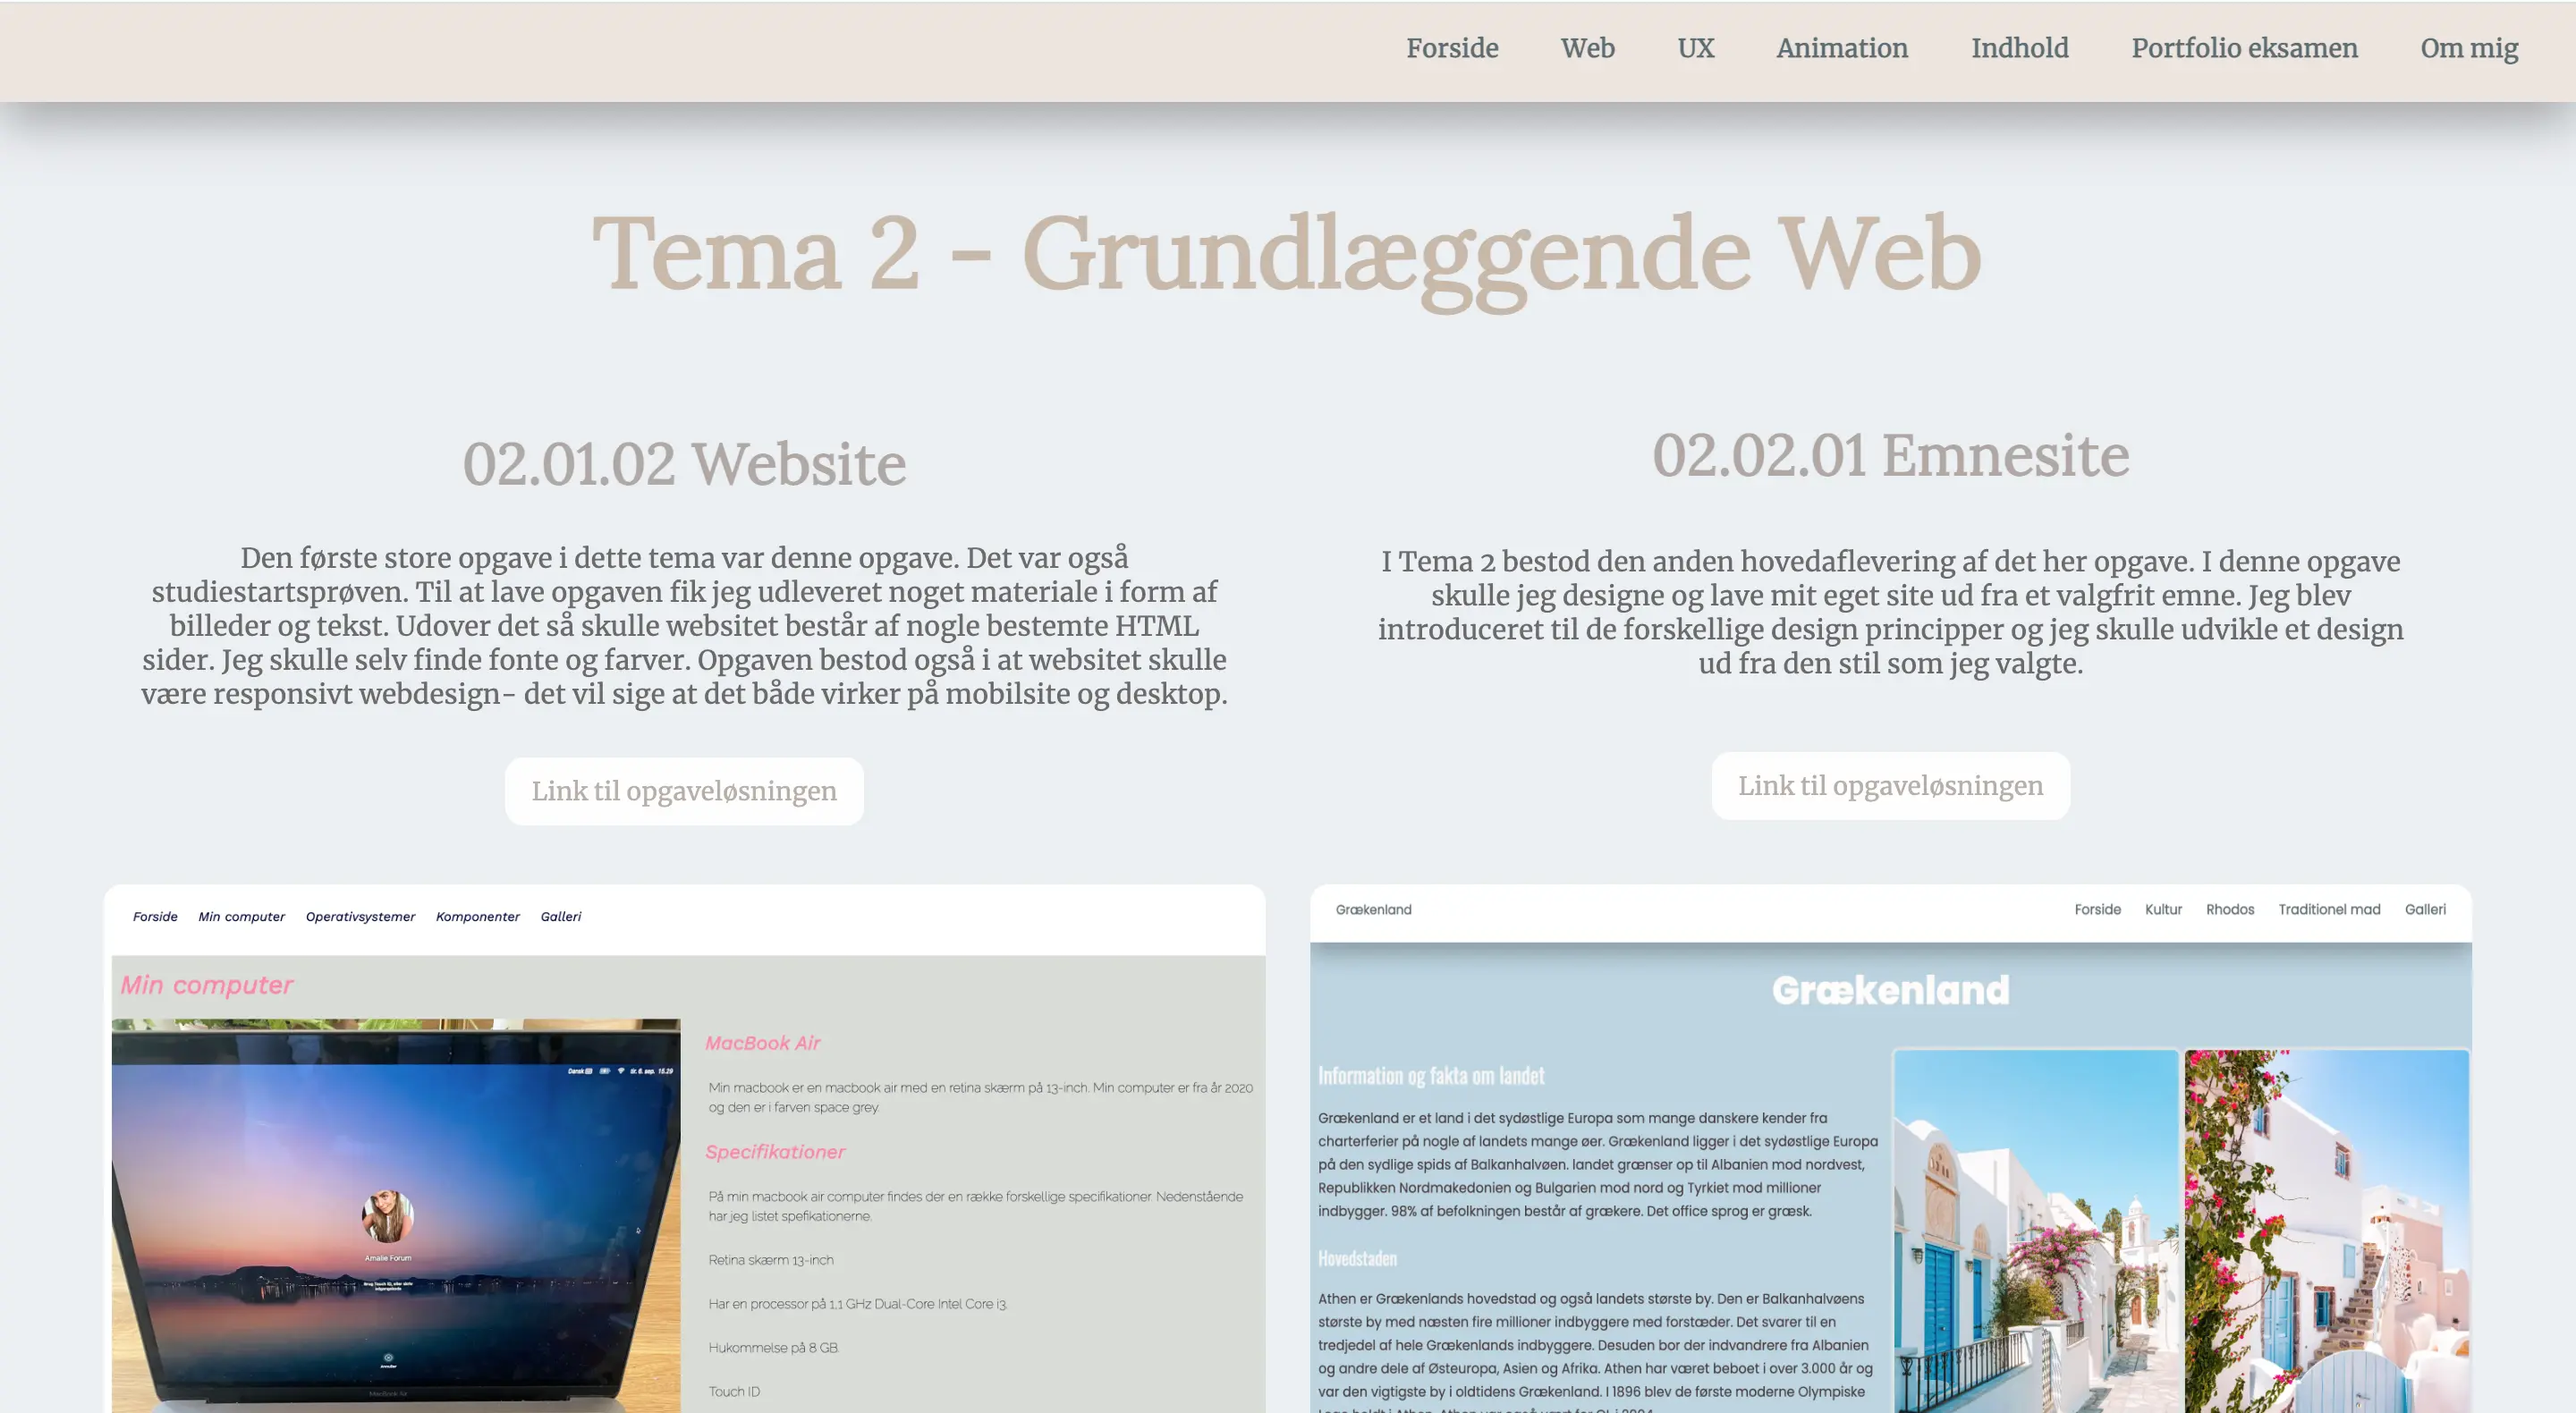
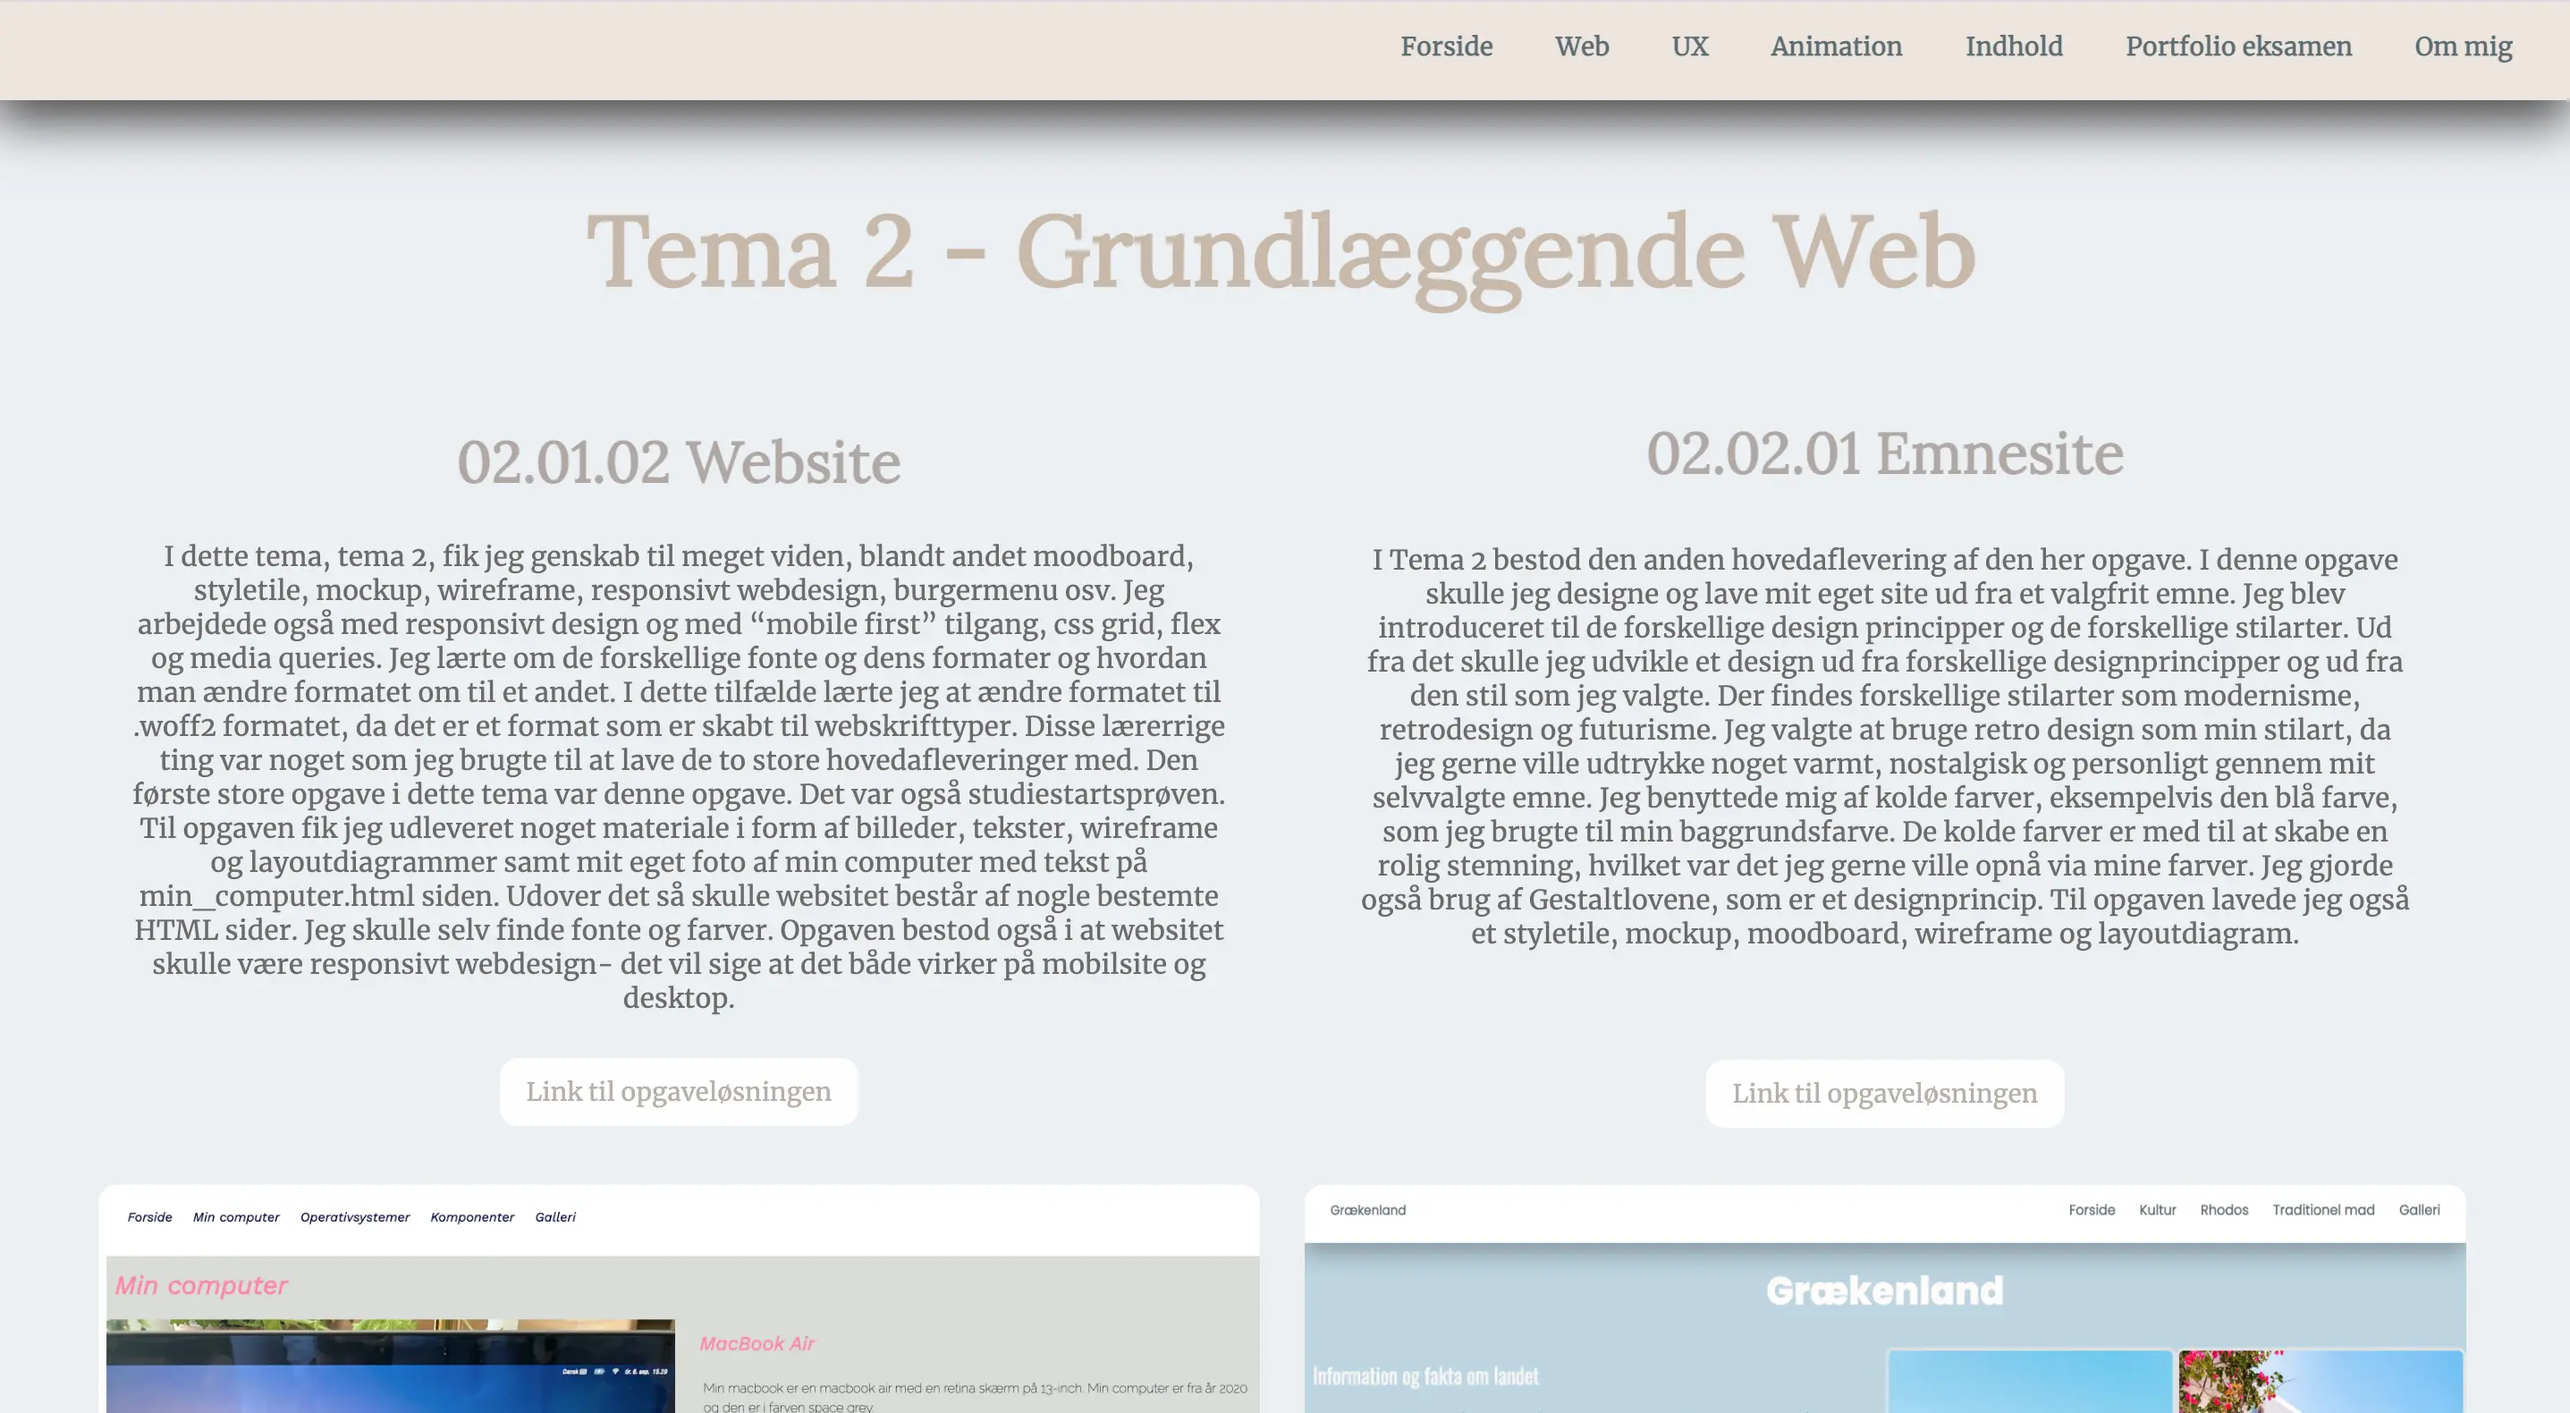
skrevet mere tekst til siderne

diff --git a/tema2.html b/tema2.html
@@ -31,8 +31,11 @@
         <div class="website">
           <h2 class="overskrift3">02.01.02 Website</h2>
           <p class="tekst2">
-            Den første store opgave i dette tema var denne opgave. Det var også studiestartsprøven. Til at lave opgaven fik jeg udleveret noget materiale i form af billeder og tekst. Udover det så skulle websitet består af nogle bestemte HTML sider.
-            Jeg skulle selv finde fonte og farver. Opgaven bestod også i at websitet skulle være responsivt webdesign- det vil sige at det både virker på mobilsite og desktop.
+            I dette tema, tema 2, fik jeg genskab til meget viden, blandt andet moodboard, styletile, mockup, wireframe, responsivt webdesign, burgermenu osv. Jeg arbejdede også med responsivt design og med “mobile first” tilgang, css grid, flex og
+            media queries. Jeg lærte om de forskellige fonte og dens formater og hvordan man ændre formatet om til et andet. I dette tilfælde lærte jeg at ændre formatet til .woff2 formatet, da det er et format som er skabt til webskrifttyper. Disse
+            lærerrige ting var noget som jeg brugte til at lave de to store hovedafleveringer med. Den første store opgave i dette tema var denne opgave. Det var også studiestartsprøven. Til opgaven fik jeg udleveret noget materiale i form af
+            billeder, tekster, wireframe og layoutdiagrammer samt mit eget foto af min computer med tekst på min_computer.html siden. Udover det så skulle websitet består af nogle bestemte HTML sider. Jeg skulle selv finde fonte og farver. Opgaven
+            bestod også i at websitet skulle være responsivt webdesign- det vil sige at det både virker på mobilsite og desktop.
           </p>
           <div class="link1">
             <form action="https://www.mmdkea.dk/kea/02_web/01_website/website/index.html">
@@ -43,8 +46,10 @@
         <div class="emnesite">
           <h2 class="overskrift5">02.02.01 Emnesite</h2>
           <p class="tekst3">
-            I Tema 2 bestod den anden hovedaflevering af det her opgave. I denne opgave skulle jeg designe og lave mit eget site ud fra et valgfrit emne. Jeg blev introduceret til de forskellige design principper og jeg skulle udvikle et design ud
-            fra den stil som jeg valgte.
+            I Tema 2 bestod den anden hovedaflevering af den her opgave. I denne opgave skulle jeg designe og lave mit eget site ud fra et valgfrit emne. Jeg blev introduceret til de forskellige design principper og de forskellige stilarter. Ud fra
+            det skulle jeg udvikle et design ud fra forskellige designprincipper og ud fra den stil som jeg valgte. Der findes forskellige stilarter som modernisme, retrodesign og futurisme. Jeg valgte at bruge retro design som min stilart, da jeg
+            gerne ville udtrykke noget varmt, nostalgisk og personligt gennem mit selvvalgte emne. Jeg benyttede mig af kolde farver, eksempelvis den blå farve, som jeg brugte til min baggrundsfarve. De kolde farver er med til at skabe en rolig
+            stemning, hvilket var det jeg gerne ville opnå via mine farver. Jeg gjorde også brug af Gestaltlovene, som er et designprincip. Til opgaven lavede jeg også et styletile, mockup, moodboard, wireframe og layoutdiagram.
           </p>
           <div class="link2">
             <form action="https://mmdkea.dk/kea/02_web/02_emnesite/emnesite/index.html">
@@ -54,6 +59,14 @@
         </div>
         <img class="img2" src="billeder/website.webp" alt="website" />
         <img class="img3" src="./billeder/emnesite.webp" alt="emnesite" />
+        <div class="website2">
+          <h3 class="h3w">Responsivt webdesign- fungerer også i mobilefirst</h3>
+          <img class="img31" src="./billeder/computer.webp" alt="computer" />
+        </div>
+        <div class="emnesite2">
+          <h3 class="h3e">Moodboard</h3>
+          <img class="img32" src="billeder/moodboard.webp" alt="moodboard" />
+        </div>
       </div>
     </main>
     <footer>

diff --git a/style.css b/style.css
@@ -182,11 +182,21 @@ p {
   padding: 58px;
   gap: 25px;
 }
-/* Givet billeder en rund kant istedet for den orginale (firkantet) */
+/* Givet billederne en rund kant istedet for den orginale (firkantet) */
+/* billede af website opgaven- desktop format */
 .img2 {
   border-radius: 10px;
 }
+/* billede af emnesite opgaven */
 .img3 {
+  border-radius: 10px;
+}
+/* billede af website opgaven i mobile first format */
+.img31 {
+  border-radius: 10px;
+}
+/* billede af moodboard til emnesite opgaven */
+.img32 {
   border-radius: 10px;
 }
 
@@ -199,20 +209,33 @@ p {
   padding: 5px;
 }
 
-/* h3 på website opgaven*/
-/* .overskrift4 {
-  font-size: 20px;
-  color: rgba(133, 121, 108, 0.588);
-  text-align: center;
-  font-family: "Lora";
-} */
-
 /* h2 på emnesite opgaven */
 .overskrift5 {
   font-size: 32px;
   color: #85796c96;
   text-align: center;
   font-family: "Lora";
+}
+
+/* h3 på responsivt design skriften på website opgaven */
+.h3w {
+  font-size: 22px;
+  color: #85796c96;
+  text-align: center;
+  font-family: "Lora";
+  padding-top: 10px;
+  padding-bottom: 10px;
+}
+
+/* h3 på moodboard på emnesite opgaven */
+.h3e {
+  font-size: 22px;
+  color: #85796c96;
+  text-align: center;
+  font-family: "Lora";
+  padding-top: 5px;
+  padding-bottom: 8px;
+  padding: 10px;
 }
 
 /* tekst på website opgaven */
@@ -237,21 +260,21 @@ p {
 .link1 {
   display: flex;
   justify-content: center;
-  padding: 2px;
+  padding-bottom: 2px;
 }
 
 /* link til emnesite opgaven */
 .link2 {
   display: flex;
   justify-content: center;
-  padding: 4px;
+  padding-top: 25px;
 }
 
 /* har sat det ind i en media queries, så det også virker på mobil størrelse- det vil sige så sitet er responsivt */
 @media (max-width: 800px) {
   .grid_2-2 {
     display: grid;
-    grid-template-columns: 2fr 2fr;
+    grid-template-columns: 1fr;
     padding: 30px;
   }
 
@@ -265,20 +288,46 @@ p {
     grid-row: 2/3;
   }
 
-  .emnesite {
+  .website2 {
     grid-column: 1/3;
     grid-row: 3/4;
   }
 
-  .img3 {
+  .img31 {
     grid-column: 1/3;
     grid-row: 4/5;
   }
 
-  .tekst3 {
+  .emnesite {
     grid-column: 1/3;
     grid-row: 5/6;
+    padding-top: 27px;
   }
+
+  .img3 {
+    grid-column: 1/3;
+    grid-row: 6/7;
+  }
+
+  .tekst3 {
+    grid-column: 1/3;
+    grid-row: 7/8;
+  }
+
+  .emnesite2 {
+    grid-column: 1/3;
+    grid-row: 8/9;
+  }
+
+  .img32 {
+    grid-column: 1/3;
+    grid-row: 9/10;
+    padding-bottom: 35px;
+  }
+
+  /* .footer {
+    padding-top: 20px;
+  } */
 }
 
 /* hører til javascript dokument */
@@ -566,7 +615,7 @@ p {
   .grid_3-3 {
     display: grid;
     grid-template-columns: 1fr;
-    grid-template-rows: 1fr;
+    /* grid-template-rows: 1fr; */
   }
   .img13 {
     grid-column: 1/3;
@@ -586,6 +635,7 @@ p {
   .redesign {
     grid-column: 1/3;
     grid-row: 4/5;
+    padding-top: 25px;
   }
 
   .img15 {
@@ -600,15 +650,6 @@ p {
 }
 
 /* .............. til siden tema 6 ................ */
-
-/* grid på billederne */
-/* .grid_1-1-1-1-1-1 {
-  display: grid;
-  grid-template-columns: 1fr 1fr 1fr 1fr 1fr 1fr;
-  gap: 10px;
-  padding: 40px;
-} */
-
 /* grid på billederne i portfolio eksamen opgaven */
 .grid_3-2 {
   display: grid;
@@ -661,12 +702,14 @@ p {
     display: grid;
     grid-template-columns: 1fr;
     grid-template-rows: 1fr;
+    padding: 20px;
   }
 
   .grid_4-2 {
     display: grid;
     grid-template-columns: 1fr;
     grid-template-rows: 1fr;
+    padding: 20px;
   }
 
   .img18 {

diff --git a/tema3.html b/tema3.html
@@ -30,8 +30,11 @@
       <div class="ux1">
         <h2 class="overskrift6">03.02.02 Løsning</h2>
         <p class="tekst4">
-          I denne opgave skulle jeg lave et design af min egen prototype ud fra en grundlæggende idé til et shop-koncept på nettet. Mit shop-koncept var et bæredygtigt koncept, hvor tøjet kun var produceret af 100 procent økologisk bomuld. Til at
-          lave min egen prototype benyttede jeg mig af programmet Adobe XD med hjælp af UI kits.
+          I tema 3 fik jeg en forståelse for samarbejdet mellem brugere og brugergrænseflader. Jeg lærte hvilke teorier, værktøjer og metoder som man kan bruge til design og research. Jeg lærte at indsamle, analysere og anvende empiriske data om
+          brugssituationer og brugere via research fasen. I research fasen findes der nogle forskellige metoder som desk research, surveys, observation og interviews. Derudover stiftede jeg også kendskab til hvordan man tester en digital
+          produktudvikling. Det gjorde jeg via en Pitch, som jeg har illustreret længere nede på siden. Temaet bestod også af to opgaver. Den ene var opgaven 03.02.02 Løsning. I denne opgave skulle jeg lave et design af min egen prototype ud fra en
+          grundlæggende idé til et shop-koncept på nettet. Mit shop-koncept var et bæredygtigt koncept, hvor tøjet kun var produceret af 100 procent økologisk bomuld. Til at lave min egen prototype blev jeg introduceret til forskellige værktøjer som
+          man kan bruge til ens designproces. Jeg brugte blandt andet lightning demoes, sketching og decide fra sprint processen. Udover det benyttede jeg mig af programmet Adobe XD med hjælp af UI kits.
         </p>
         <div class="link3">
           <form action="https://xd.adobe.com/view/131d2146-17d6-46d9-b114-6e2b48b53c55-464e/">
@@ -47,8 +50,8 @@
       <div class="ux2">
         <h2 class="overskrift7">03.03.02 Pitch</h2>
         <p class="tekst5">
-          Denne opgave bestod af at jeg skulle lave en UX pitch. Pitchen skulle være en 5 minutters præsentation. Præsentationen skulle være en præsentation om mine UX-leverancer. Udover det også min endelige løsning og små delopgaver som jeg også
-          har lavet- eksempelvis UX-research, hvor jeg brugte forskellige research metoder.
+          Denne opgave bestod af at jeg skulle lave en UX pitch. En pitch er en præsentation af et koncept, som man gerne vil formidle til en kunde. Pitchen skulle være en 5 minutters præsentation. Præsentationen skulle være en præsentation om mine
+          UX-leverancer. Udover det skulle pitchen også indeholde min endelige løsning på min prototype samt de små delopgaver som jeg også har lavet- eksempelvis UX-research, hvor jeg brugte forskellige research metoder.
         </p>
         <div class="link4">
           <form action="https://mmdkea.dk/kea/03_ux/03_03_02_pitch_amalie1.pdf">

diff --git a/tema6.html b/tema6.html
@@ -33,7 +33,9 @@
       <div class="portfolio">
         <h2 class="overskrift17">Beskrivelse og dokumentation af min proces med at udvikle portfolio-sitet</h2>
         <p class="tekst13">
-          Denne opgave var eksamen på 1. semester af multimediedesign uddannelsen. Opgaven gik ud på at jeg skulle lave et portfolio website. Websitet skulle repræsenter de projekter, som jeg har arbejdet med i løbet af 1. semester.
+          Denne opgave var eksamen på 1. semester af multimediedesign uddannelsen. Opgaven gik ud på at jeg skulle lave et portfolio website. Websitet skulle repræsenter de projekter, som jeg har arbejdet med i løbet af 1. semester. Til at udvikle
+          mit portfolio website har jeg brugt den viden og de færdigheder, som jeg har opnået og lært i løbet af 1. semester. Hver opgave er illustreret i form af udvalgte screenshots fra en opgave samt en beskrivelse af selve opgavens udgangspunkt
+          samt læreringsmål.
         </p>
         <div class="grid_3-2">
           <img class="img18" src="billeder/screenshotforside.webp" alt="screenshotforside" />
